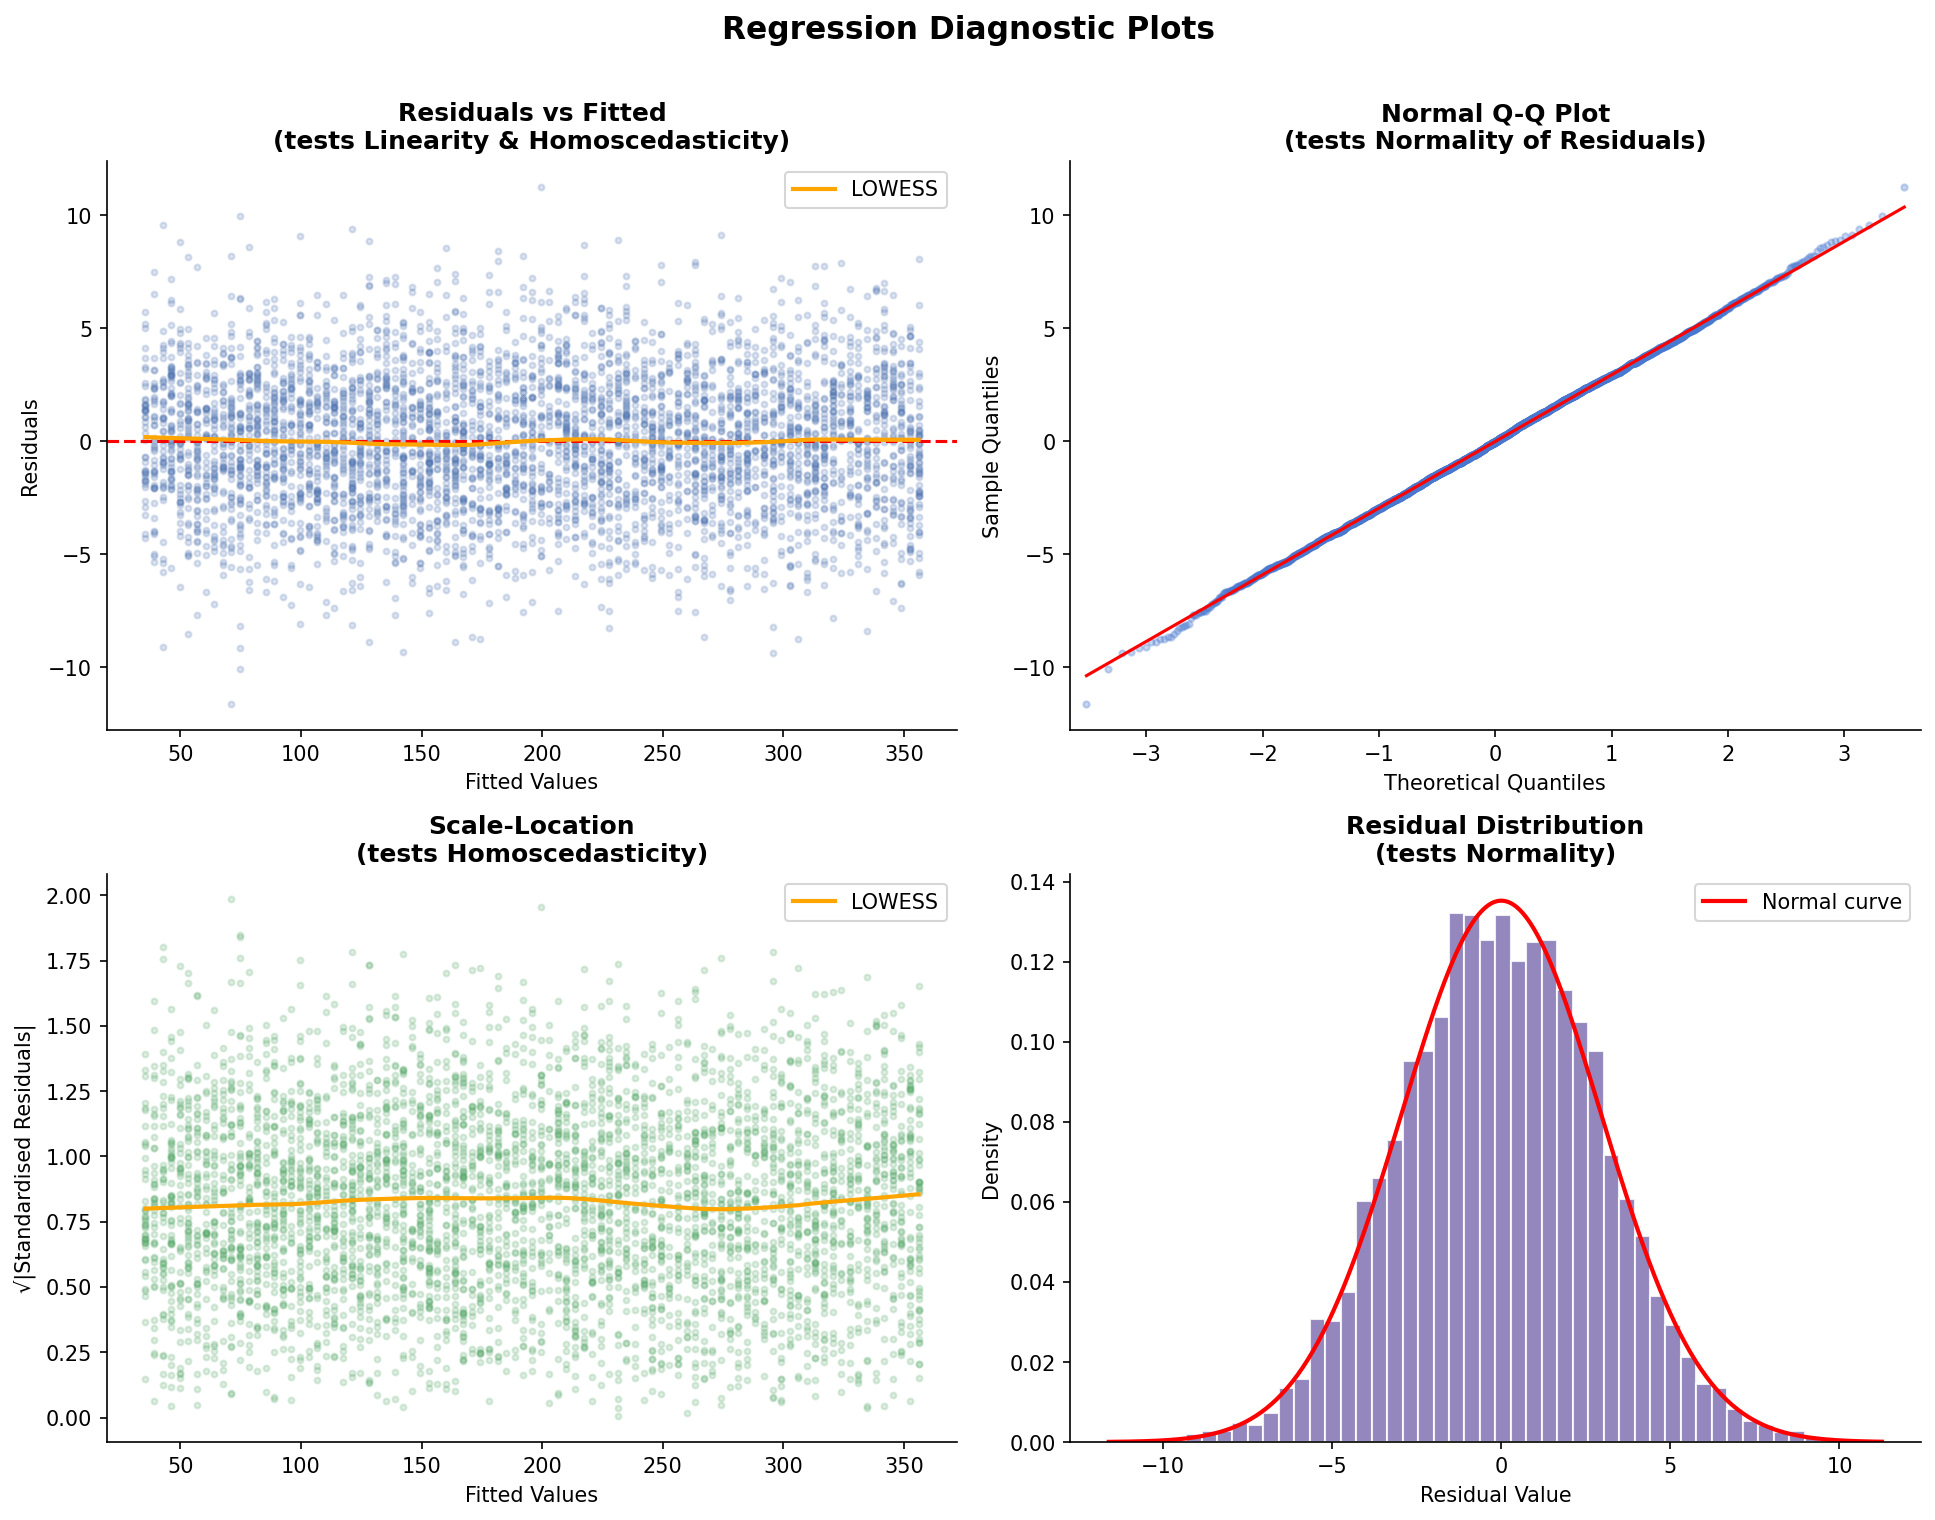
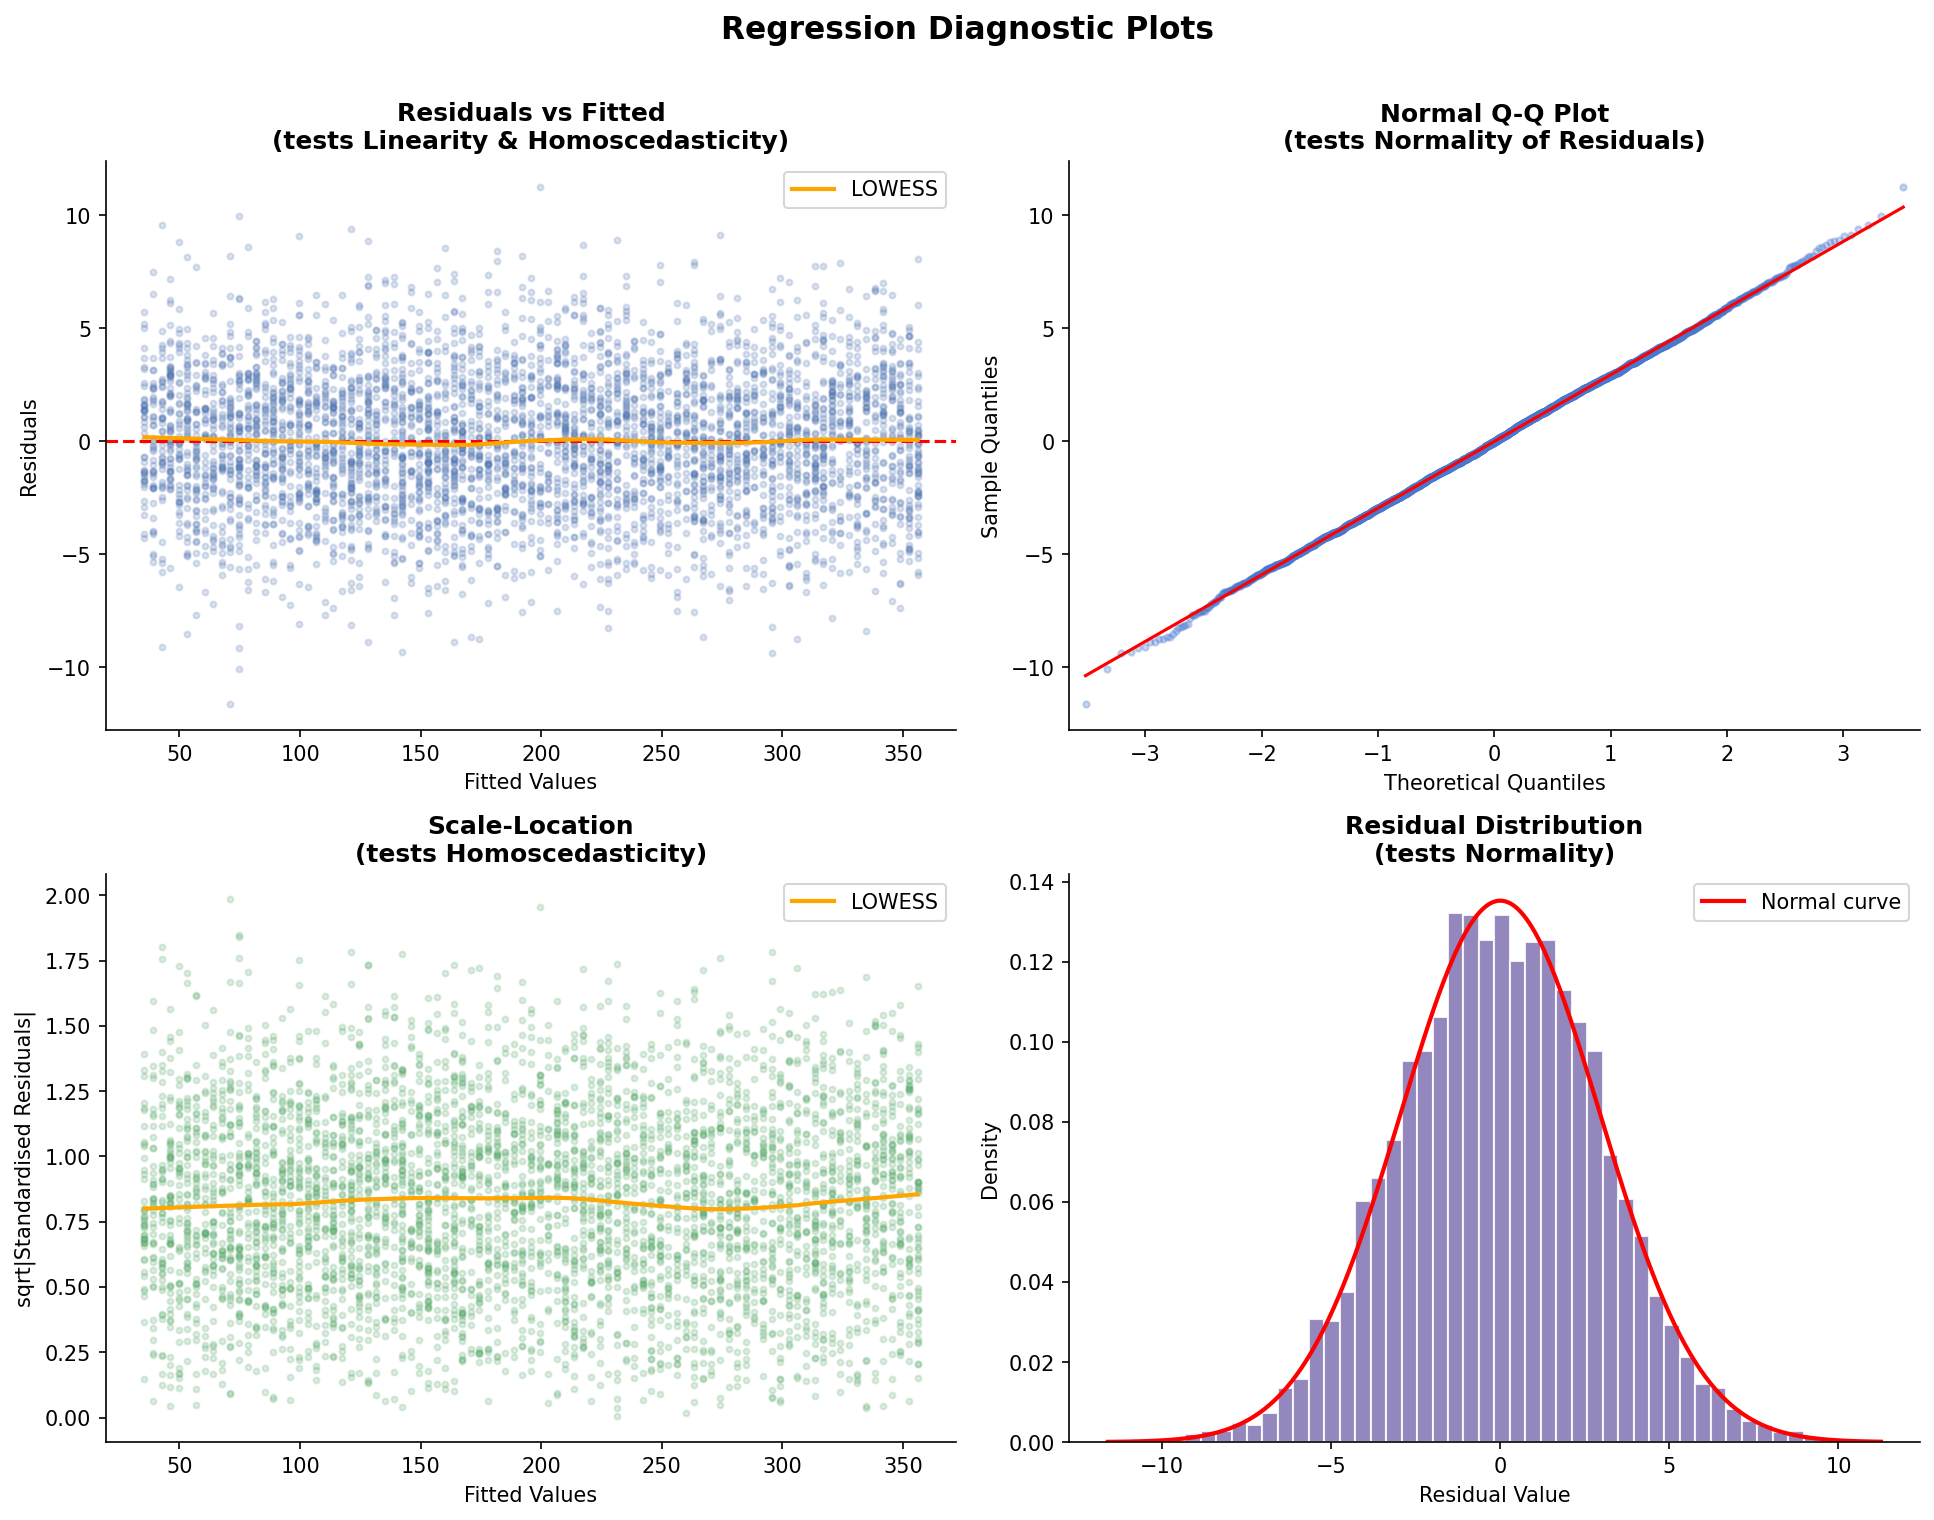
Fix notebook encoding corruption, add exact statistical metrics and regression equation to README

diff --git a/README.md b/README.md
@@ -1,95 +1,74 @@
-# Marketing ROI Analysis — Simple Linear Regression
+# Marketing ROI Analysis - Simple Linear Regression
 
-A data science project that uses Python and statsmodels to identify the marketing
-channel with the greatest impact on Sales and quantifies that relationship through
-an OLS regression model.
+A data science project that uses Python and statsmodels to identify the marketing channel with the greatest impact on Sales and quantifies that relationship through an OLS regression model.
+
+---
+
+## Regression Equation
+
+Sales = 3.5615 * TV - 0.1325
+(or y = 3.5615x - 0.1325)
+
+*Units: $000s (e.g., a TV budget of $10,000 [TV = 10] predicts Sales of 35.4825 [$35,482.50]).*
 
 ---
 
 ## Project Structure
 
-```
-├── regression_analysis.ipynb   # Main analysis notebook (all cells executed)
+```text
+├── regression_analysis.ipynb   # Main analysis notebook (ASCII-only, fully executed)
 ├── marketing_data.csv          # Raw dataset (TV, Radio, Social_Media, Sales)
 └── README.md                   # This file
 ```
-
-## Dataset
-
-| Column | Description | Units |
-|---|---|---|
-| `TV` | TV advertising budget | $000s |
-| `Radio` | Radio advertising budget | $000s |
-| `Social_Media` | Social media advertising budget | $000s |
-| `Sales` | Revenue generated | $000s |
-
-4,572 rows · 4 columns · minimal missing values (< 0.3 % per column, dropped).
 
 ---
 
 ## Key Findings
 
-| Metric | Value |
-|---|---|
-| Best predictor | TV (r = 0.9995) |
-| R² | ≈ 0.9990 |
-| TV coefficient | ≈ 3.56 |
-| Estimated ROI | ~256 % per $1,000 invested |
+| Metric | Value | Business Meaning |
+|---|---|---|
+| Best Predictor | TV (r = 0.9995) | TV advertising budget has an extremely strong linear correlation with Sales. |
+| R-squared (R^2) | 0.998995 (99.90%) | TV budget explains 99.90% of the variance in Sales. |
+| TV Coefficient (Slope) | 3.561514 | Each additional $1,000 spent on TV ads yields $3,561.51 in Sales. |
+| Estimated Gross ROI | ~256% | Return of $3.56 for every $1.00 invested. |
 
-**Recommendation:** Prioritise TV spend. Every additional $1,000 allocated to TV
-advertising is associated with approximately $3,560 in incremental Sales revenue.
+---
+
+## Detailed Statistical Results
+
+### OLS Regression Coefficients
+- **TV Coefficient (Slope)**: 3.561514
+  - **p-value**: 0.0000 (highly statistically significant, p < 0.001)
+  - **95% Confidence Interval**: [3.558229, 3.564799]
+- **Intercept (c)**: -0.132493
+  - **p-value**: 0.1879 (p > 0.05, not statistically significant; baseline sales are statistically indistinguishable from zero)
+  - **95% Confidence Interval**: [-0.329727, 0.064742]
+- **Model F-statistic**: 4,516,779.38
+  - **Prob (F-statistic)**: 0.0000 (overall model is highly significant, p < 0.001)
+
+### Residual Assumption Tests
+- **Normality (Jarque-Bera Test)**:
+  - **JB Statistic**: 0.031087
+  - **p-value**: 0.9846
+  - **Verdict**: Fail to reject null hypothesis (p > 0.05). Residuals are normally distributed.
+- **Homoscedasticity (Breusch-Pagan Test)**:
+  - **LM Statistic**: 0.000059
+  - **p-value**: 0.9939
+  - **Verdict**: Fail to reject null hypothesis (p > 0.05). Residuals exhibit constant variance (homoscedasticity).
 
 ---
 
 ## Environment Setup
 
-### Prerequisites
-- Python 3.8 or higher
-- pip
-
-### Install dependencies
-
+### Install Dependencies
 ```bash
-pip install pandas numpy matplotlib seaborn statsmodels scipy
+pip install pandas numpy matplotlib seaborn statsmodels scipy jupyter
 ```
 
-Or install from a requirements file:
-
-```bash
-pip install -r requirements.txt
-```
-
-**requirements.txt**
-```
-pandas>=1.5
-numpy>=1.23
-matplotlib>=3.6
-seaborn>=0.12
-statsmodels>=0.13
-scipy>=1.9
-jupyter>=1.0
-```
-
-### Run the notebook
-
+### Run the Notebook
 ```bash
 jupyter notebook regression_analysis.ipynb
 ```
-
-Run all cells with **Kernel → Restart & Run All** to reproduce results.
-
----
-
-## Analysis Steps
-
-1. **Load & explore** the dataset; audit and handle missing values
-2. **EDA** — distributions, scatter plots, and correlation heat-map
-3. **Variable selection** — identify the channel most correlated with Sales
-4. **OLS regression** — fit model with statsmodels, print full summary
-5. **Diagnostic plots** — Residuals vs Fitted, Q-Q, Scale-Location, histogram
-6. **Statistical tests** — Jarque-Bera (normality), Breusch-Pagan (homoscedasticity)
-7. **Business interpretation** — translate coefficients to ROI language
-8. **Recommendation** — data-driven budget allocation advice
 
 ---
 
@@ -97,15 +76,14 @@ Run all cells with **Kernel → Restart & Run All** to reproduce results.
 
 | File | Description |
 |---|---|
-| `distributions.png` | Histogram grid of all four variables |
-| `scatter_plots.png` | Each channel vs Sales with OLS trendline |
-| `correlation_heatmap.png` | Pearson correlation matrix |
-| `regression_line.png` | TV vs Sales with fitted regression line |
-| `diagnostic_plots.png` | Four-panel assumption diagnostics |
-| `roi_comparison.png` | Bar chart of channel correlations with Sales |
+| `distributions.png` | Histogram grid of TV, Radio, Social Media, and Sales |
+| `scatter_plots.png` | Scatter plots with OLS fit lines for each channel |
+| `correlation_heatmap.png` | Pearson correlation matrix heatmap |
+| `regression_line.png` | TV spend vs Sales regression line plot |
+| `diagnostic_plots.png` | Residual plots (Normality & Homoscedasticity) |
+| `roi_comparison.png` | Bar chart comparing correlations with Sales |
 
 ---
 
 ## Author
-
 Samuel Oladipupo